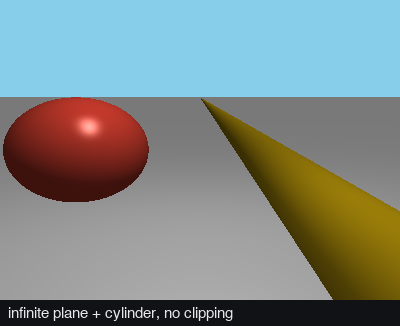
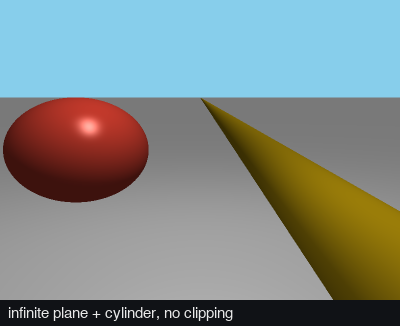
cga: 渲染器超采样抗锯齿 (Renderer aa=N, 每像素 N×N 分层射线平均); demos 启用 aa=2 并重生成 gif/图; README + markdownlint 配置

Changed region(s): [[0.21, 0.2761, 0.27, 0.3067], [0.12, 0.2761, 0.18, 0.3067], [0.48, 0.2761, 0.51, 0.3067]]

diff --git a/cga/engine.py b/cga/engine.py
@@ -16,6 +16,9 @@ CGA 核心 (与 three.js 的三角网格光栅化不同):
 相机空间约定 (与 cga.render 一致): X 右 / Y 下 / Z 前, 针孔
 col = fx·X/Z + cx, row = fy·Y/Z + cy, 相机在原点。
 
+抗锯齿: Renderer(aa=N) 每像素 N×N 条分层亚像素射线, 渲染后平均
+(超采样 SSAA; 射线一次批量, 代价 = aa² × 像素数)。
+
 范围声明 (v1 与 three.js 的差距, 如实标注):
   - 无阴影/纹理/后处理/tonemap; 颜色线性 I/O, 不做 sRGB 编码。
   - Object3D 无 scale: motor 是刚体变换, 尺寸全走 geometry 参数。
@@ -572,24 +575,42 @@ class Renderer:
     (MLX GPU, 全像素向量化) → Blinn-Phong 着色 → sRGB 近似输出。
     """
 
-    def __init__(self, width: int = 640, height: int = 480):
+    def __init__(self, width: int = 640, height: int = 480, aa: int = 1):
+        """超采样抗锯齿: aa=1 每像素 1 条射线 (像素中心, 原行为);
+        aa=N → 每像素 N×N 条分层亚像素射线取平均 (SSAA, 射线一次批量)。"""
+        if aa < 1:
+            raise ValueError(f"aa must be >= 1, got {aa}")
         self.width = int(width)
         self.height = int(height)
+        self.aa = int(aa)
         self._cam = None
-        self._rays = None  # (N, 3) 单位方向, N = H·W, 按相机内参惰性构建
+        self._rays = None  # (aa²·N, 3) 单位方向, N = H·W, 按相机内参惰性构建
 
     def _build_rays(self) -> mx.array:
-        """像素网格 → 相机空间单位射线方向 (相机在原点, 无透视偏移)。"""
+        """像素网格 → 相机空间单位射线方向 (相机在原点, 无透视偏移)。
+
+        aa>1: 每像素 k×k (k=aa) 分层亚像素采样, 射线数 = aa²·H·W,
+        渲染后按样本平均 (框滤波超采样 = SSAA)。aa=1 与原行为逐位一致。
+        """
         H, W = self.height, self.width
         fy = H / (2.0 * math.tan(math.radians(self._cam.fov) / 2.0))
         fx = fy * self._cam.aspect
         cx, cy = (W - 1) / 2.0, (H - 1) / 2.0
-        u = mx.broadcast_to((mx.arange(W, dtype=mx.float32)[None, :] - cx) / fx, (H, W))
-        v = mx.broadcast_to((mx.arange(H, dtype=mx.float32)[:, None] - cy) / fy, (H, W))
+        u0 = (mx.arange(W, dtype=mx.float32) - cx) / fx  # (W,) 像素中心
+        v0 = (mx.arange(H, dtype=mx.float32) - cy) / fy  # (H,)
         z = mx.ones((H, W), dtype=mx.float32)
-        dirs = mx.stack([u, v, z], axis=-1).reshape(-1, 3)  # (N, 3)
-        n = mx.sqrt(mx.sum(dirs * dirs, axis=-1, keepdims=True))
-        return dirs / n
+        dirs = []
+        k = self.aa
+        for j in range(k):
+            for i in range(k):
+                du = ((i + 0.5) / k - 0.5) / fx  # 亚像素偏移 (射线单位, 像素内分层)
+                dv = ((j + 0.5) / k - 0.5) / fy
+                u = mx.broadcast_to((u0 + du)[None, :], (H, W))
+                v = mx.broadcast_to((v0 + dv)[:, None], (H, W))
+                dirs.append(mx.stack([u, v, z], axis=-1))
+        rays = mx.concatenate(dirs, axis=0).reshape(-1, 3)  # (aa²·N, 3)
+        n = mx.sqrt(mx.sum(rays * rays, axis=-1, keepdims=True))
+        return rays / n
 
     def _shade(
         self,
@@ -692,15 +713,23 @@ class Renderer:
             acc = mx.where(hit[:, None], col, acc)
             miss = mx.where(hit, t, miss)
         rgb = mx.where(mx.isfinite(miss)[:, None], acc, bg)
+        S = self.aa * self.aa
+        if S > 1:
+            # 超采样平均: (aa²·N, 3) → 每像素 aa² 条样本取均值
+            rgb = mx.mean(mx.reshape(rgb, (S, N // S, 3)), axis=0)
         # v1 线性 I/O: 颜色当线性值直接输出, 不做 sRGB 编码 (hex 颜色
         # 直接是 sRGB 编码, 若做 sqrt 输出会双重提亮; 精确管线留后)
-        rgba = mx.concatenate([rgb, mx.ones((N, 1), dtype=mx.float32)], axis=-1)
+        rgba = mx.concatenate([rgb, mx.ones((N // S, 1), dtype=mx.float32)], axis=-1)
         rgba = mx.clip(rgba * 255.0, 0.0, 255.0).astype(mx.uint8)
         return mx.reshape(rgba, (self.height, self.width, 4))
 
 
 def render_frame(
-    scene: Scene, camera: PerspectiveCamera, width: int = 640, height: int = 480
+    scene: Scene,
+    camera: PerspectiveCamera,
+    width: int = 640,
+    height: int = 480,
+    aa: int = 1,
 ) -> mx.array:
     """单帧快捷入口 (demo 用)。"""
-    return Renderer(width, height).render(scene, camera)
+    return Renderer(width, height, aa=aa).render(scene, camera)

diff --git a/demo_advantage.py b/demo_advantage.py
@@ -41,10 +41,13 @@ def _render(
     cam_pos: tuple[float, float, float],
     target: tuple[float, float, float],
 ) -> np.ndarray:
-    """静态视角渲染一帧 → (H, W, 4) uint8 RGBA (numpy 桥, 仅 PIL 输出用)。"""
+    """静态视角渲染一帧 → (H, W, 4) uint8 RGBA (numpy 桥, 仅 PIL 输出用)。
+
+    aa=2 超采样抗锯齿: 每像素 2×2 亚像素射线平均, 轮廓/高光边缘更平滑。
+    """
     camera = PerspectiveCamera(fov=50, aspect=W / H, position=cam_pos, target=target)
     camera.look_at(target)
-    img = Renderer(W, H).render(scene, camera)
+    img = Renderer(W, H, aa=2).render(scene, camera)
     return np.asarray(img.tolist(), dtype=np.uint8)
 
 

diff --git a/cga/__main__.py b/cga/__main__.py
@@ -369,6 +369,17 @@ def main() -> None:
         img_cyl[23, 31][:3].tolist() == [135, 206, 235],
     )
 
+    # 抗锯齿: aa=2 (2×2 亚像素采样平均) 平滑球轮廓, 内部像素不变
+    sc_aa = Scene(background=Color(0x0000FF))
+    sc_aa.add(Mesh(SphereGeometry(1.0), MeshBasicMaterial(Color(0xFF0000))))
+    img_aa1 = render_frame(sc_aa, cam0, 63, 47)
+    img_aa2 = render_frame(sc_aa, cam0, 63, 47, aa=2)
+    check(
+        "aa interior identical",
+        img_aa2[23, 31].tolist() == img_aa1[23, 31].tolist(),
+    )
+    check("aa smooths silhouette", bool(mx.any(img_aa1 != img_aa2).item()))
+
     print(f"\nall {_ok} checks passed")
 
 

diff --git a/demo_engine.py b/demo_engine.py
@@ -87,7 +87,7 @@ def main() -> None:
     )
     camera.look_at((0, 0.8, 0))
     controls = OrbitControls(camera, target=(0, 0.8, 0), radius=6.6, elevation=0.42)
-    renderer = Renderer(360, 270)
+    renderer = Renderer(360, 270, aa=2)  # 2×2 超采样抗锯齿, 轮廓无锯齿
 
     paths: list[Path] = []
     for i in range(frames):

diff --git a/README.md b/README.md
@@ -8,8 +8,9 @@ versor 共轭, 渲染就是对 blade 的 GPU 批量求交。
 
 ## 渲染结果
 
-`demo_engine.py` 的轨道动画 (90 帧, 50ms/帧, 360×270): 地面 + 红/蓝球 + 金柱 +
-绿盒 + 紫圆盘, 平行光 + 点光 + 正面补光 + 环境光, OrbitControls 环绕一周:
+`demo_engine.py` 的轨道动画 (90 帧, ~30ms/帧, 360×270, `aa=2` 超采样抗锯齿):
+地面 + 红/蓝球 + 金柱 + 绿盒 + 紫圆盘, 平行光 + 点光 + 正面补光 + 环境光,
+OrbitControls 环绕一周:
 
 ![轨道渲染 demo](docs/orbit.gif)
 
@@ -20,14 +21,14 @@ versor 共轭, 渲染就是对 blade 的 GPU 批量求交。
 | 层 | 内容 |
 | --- | --- |
 | **CGA 核心** | 32 分量 multivector; 图元类 Point / PointPair / Line / Plane / Sphere / Circle / Cylinder; Motor versor 变换 (gp/reverse/log/velocity_bivector); exp/log/插值; 直接形式 `op` 与对偶形式 `ip` 两种关联判据 |
-| **渲染引擎** | three.js 命名 API: Scene / PerspectiveCamera / Mesh / Sphere·Plane·Cylinder·Box·Circle Geometry / MeshBasic·Standard Material / Ambient·Directional·Point Light / Renderer.render / OrbitControls; 场景对象 = CGA blade, 变换 = Motor 共轭 (相机也是 Motor) |
+| **渲染引擎** | three.js 命名 API: Scene / PerspectiveCamera / Mesh / Sphere·Plane·Cylinder·Box·Circle Geometry / MeshBasic·Standard Material / Ambient·Directional·Point Light / Renderer.render / OrbitControls; 场景对象 = CGA blade, 变换 = Motor 共轭 (相机也是 Motor); 超采样抗锯齿 `Renderer(aa=N)` (每像素 N×N 条亚像素射线平均) |
 | **MLX GPU** | 每像素向量化解析求交 (5 种隐式几何), 全分辨率单帧一次 kernel 批量; 相机空间 X 右 / Y 下 / Z 前 |
 
 ## 快速开始
 
 ```bash
 uv run python demo_engine.py 90        # 渲染轨道动画 → artifacts/orbit.gif
-uv run python -m cga                   # 包自检: 57 项断言 (代数/图元/versor/距离)
+uv run python -m cga                   # 包自检: 59 项断言 (代数/图元/versor/距离)
 ```
 
 ## 场景代码
@@ -102,13 +103,16 @@ geometry 构造参数里; 像素级计算全部在 MLX GPU 上批量进行, Pyth
 
 - **球/圆柱无多边形** —— 渲染质量不随相机距离恶化, 近看不会暴露三角面片; 代价是隐式几何没有顶点/拓扑, 网格编辑类建模工具 (细分、挤出) 用不上。
 - **无限几何天然成立** —— 无限平面 (地平线无限延伸)、无限圆柱是代数对象本身的属性, 无需裁剪; 想要有限片状面需自行按区域掩码裁剪 (见 `cga/render.py`)。
-- **变换与几何同构** —— motor 与 blade 是同一类对象, `Motor.compose` / `inverse` / `log` 直接作用于任何图元, 没有矩阵-四元数-轴角之间的换算层。
-- **代价在别处** —— 解析求交的 float32 blade 共轭限制场景尺度 (坐标宜 ±20 内); 无纹理坐标概念 (v1 无纹理); 无限平面/圆柱在相机位于退化位形时需内核特殊处理 (见下节)。
+- **变换与几何同构** —— motor 与 blade 是同一类对象, `Motor.compose` / `inverse` / `log`
+  直接作用于任何图元, 没有矩阵-四元数-轴角之间的换算层。
+- **代价在别处** —— 解析求交的 float32 blade 共轭限制场景尺度 (坐标宜 ±20 内);
+  无纹理坐标概念 (v1 无纹理); 无限平面/圆柱在相机位于退化位形时需内核特殊处理 (见下节)。
 
 ### 渲染示例: 三个优势的可视化
 
 `demo_advantage.py` 把上面三个实际后果各渲染成一张独立图像
-(`uv run python demo_advantage.py` → `artifacts/advantage_{a,b,c}.png`):
+(`uv run python demo_advantage.py` → `artifacts/advantage_{a,b,c}.png`, 均以
+`aa=2` 超采样抗锯齿渲染, 轮廓无锯齿):
 
 **无多边形** — 相机贴脸 (≈2.7× 半径) 的大球 + 无限圆柱: 轮廓是完美圆弧、
 高光无棱角; 同等距离的网格球/圆柱已能看到三角面片棱角。
@@ -210,7 +214,7 @@ Motor 是 SE(3) 的 versor 表示, 本包已有 `exp` / `log` / `velocity_bivect
 
 ## 项目布局
 
-```
+```text
 cga/
   multivector.py   32 分量多重向量, 代数运算 (gp/ip/op/dual/meet/norm/...)
   algebra.py       图元类与距离 (直接/对偶两种形式)
@@ -225,8 +229,8 @@ demo_advantage.py   优势渲染 demo → 无多边形/无限几何/motor 插值
 
 ## 质量
 
-- `python -m cga`: 57 项自检全过 (代数恒等式 / 图元关联判据 / versor 往返 /
-  exp-log 往返 / 距离公式, 见 `cga/__main__.py`)。
+- `python -m cga`: 59 项自检全过 (代数恒等式 / 图元关联判据 / versor 往返 /
+  exp-log 往返 / 距离公式 / 抗锯齿, 见 `cga/__main__.py`)。
 - ruff (E/F/I/UP) 与 pyright (strict) 零告警。
 
 ## License
